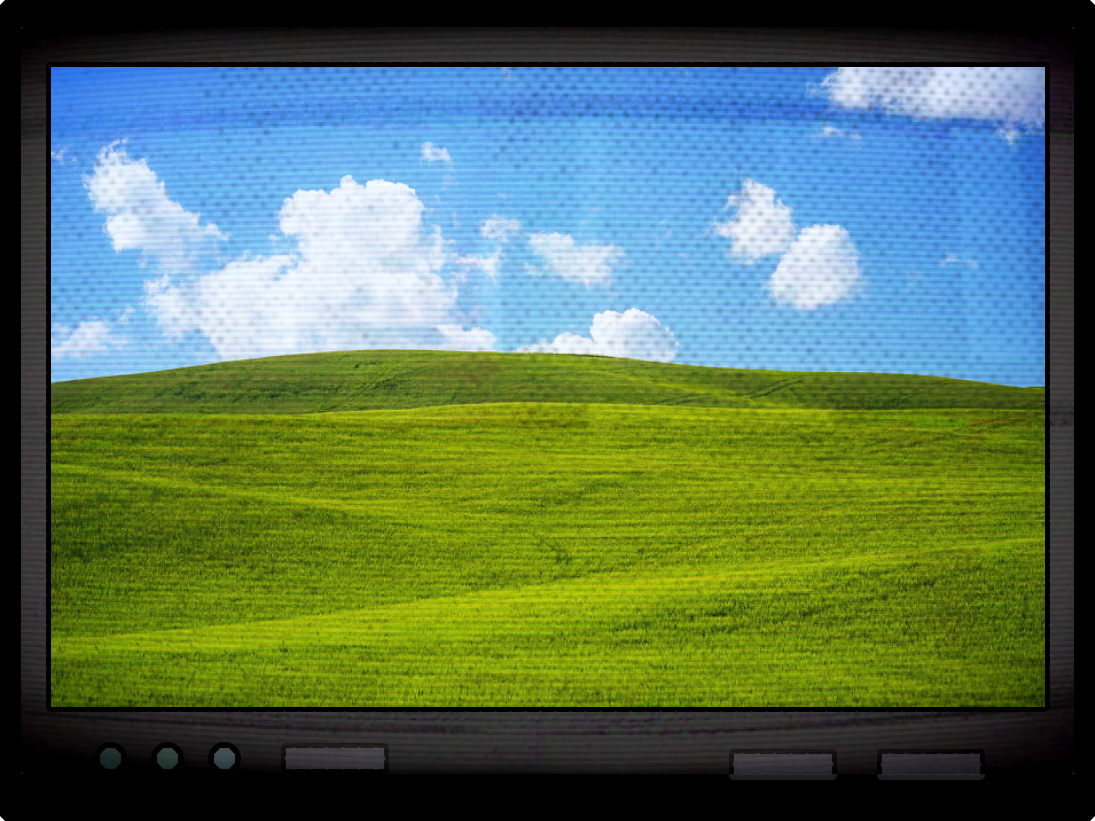
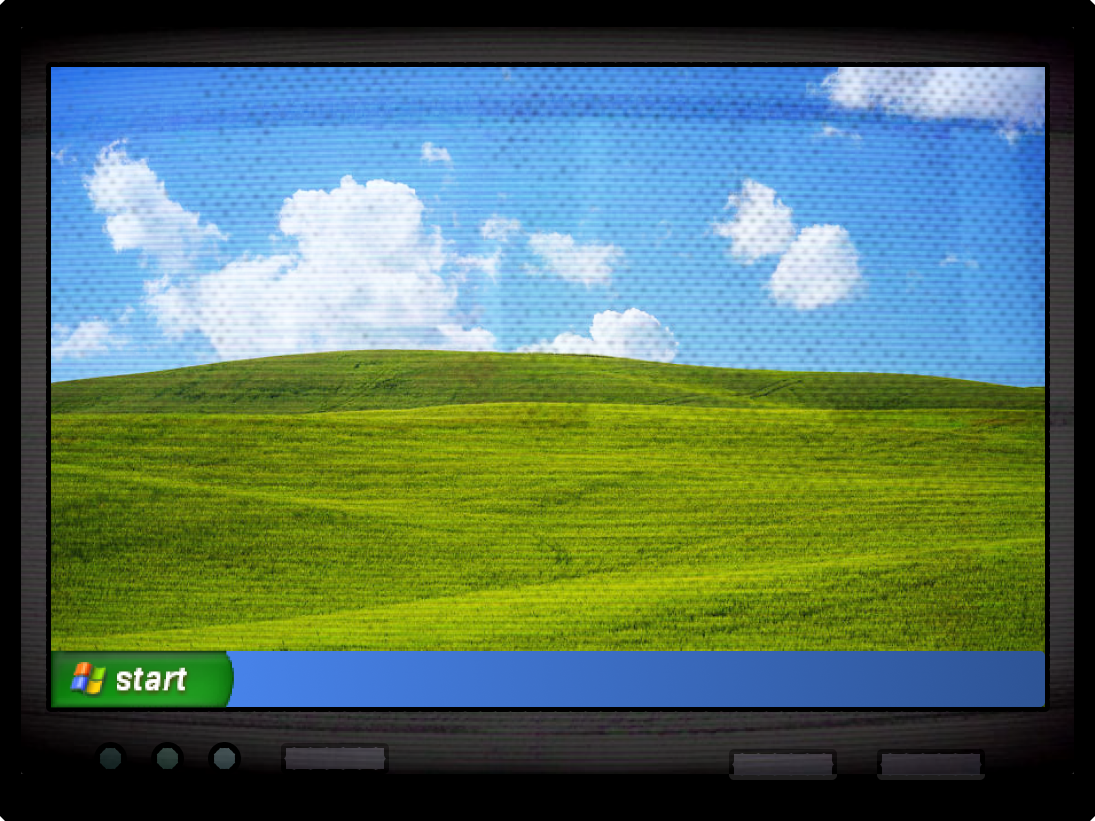
windows menu buttons

Changed region(s): [[0.0311, 0.7917, 0.9626, 0.8831]]

diff --git a/src/app/globals.css b/src/app/globals.css
@@ -336,6 +336,7 @@ ul.rankingList li {
   height: 100vh; /* Full viewport height */
   width: 100vw; /* Full viewport width */
   overflow: hidden; /* Ensure nothing overflows */
+  font-size: smaller;
 }
 
 .gamesRoomImg {
@@ -348,16 +349,49 @@ ul.rankingList li {
 }
 
 .gamesContainer {
-  background-color: white;
+  > h1, p, button {font-family: Tahoma, "Trebuchet MS", sans-serif};
+  position: relative;
+  /* background-color: rgba(255, 74, 74, 0.356); */
   padding: 2em;
   border-radius: 10px;
-  box-shadow: 0 4px 8px rgba(0, 0, 0, 0.2);
+  /* box-shadow: 0 4px 8px rgba(0, 0, 0, 0.2); */
   z-index: 1;
   text-align: center;
-  width: 700px;
-  height: 400px
+  width: 760px;
+  height: 430px;
 }
 
+.windowsMenu {
+  height: 3em; width: auto;
+  position: absolute; bottom:0; left: 0; right: 0;
+  display: flex;
+  align-items: center;
+  justify-content: center;
+  margin-left: 11em; margin-bottom: 0.1em;
+}
+
+.windowsBtn {
+  display: flex;
+  background: rgb(84,162,250);
+  background: radial-gradient(circle, rgba(84,162,250,1) 0%, rgba(50,96,148,0.4990589985994398) 100%);
+  border: 1px solid  rgb(44, 83, 128);
+  box-shadow: #404040;
+  width: 10em;
+  margin-left: 0.5em;
+  border-radius: 10px;
+  text-align: center;
+  padding: 0em 1em;
+  > button {
+    background-color: transparent;
+    height: 3em;
+    color: white;
+    border: transparent;
+  }
+}
+
+.XPicon {
+  width: 2.5em; height: 2.5em;
+}
 
 /* KITCHEN */
 div.kitchen {

diff --git a/src/app/rooms/games/page.jsx b/src/app/rooms/games/page.jsx
@@ -1,6 +1,7 @@
 "use client"
 import React from 'react'
 import Image from 'next/image';
+import WindowsBtn from './WindowsBtn';
 
 export default function Games() {
   return (
@@ -16,7 +17,13 @@ export default function Games() {
       <div className="gamesContainer">
         <button onClick={(e) => alert("Hi")}>btn</button>
         <h1>Welcome</h1>
-        <p>Lorem ipsum dolor sit amet consectetur adipisicing elit. Magni fugiat dolorem illum ducimus, voluptate error corporis unde velit reiciendis quidem, dolore nisi deleniti quo, rerum soluta rem omnis est. Cupiditate!</p>
+        <p>Lorem ipsum dolor sit amet consectetur adipisicing elit!</p>
+        <div className='windowsMenu'>
+          <WindowsBtn redirect={"/"} img={"/games/home.png"} title={"Homepage"}/>
+          <WindowsBtn redirect={"/about/howto"} img={"/games/info.png"} title={"System Utilities"}/>
+          <WindowsBtn redirect={"/about/me"} img={"/games/text.png"} title={"AboutMe.txt"}/>
+          <WindowsBtn redirect={"/"} img={"/games/controller.png"} title={"RDR2.exe"}/>
+        </div>
       </div>
     </div>
   );

diff --git a/src/app/rooms/games/WindowsBtn.jsx b/src/app/rooms/games/WindowsBtn.jsx
@@ -1,0 +1,16 @@
+import React from 'react'
+import Image from 'next/image'
+import { useRouter } from 'next/navigation'
+
+export default function WindowsBtn({img, title, redirect}) {
+    const router = useRouter();
+    return (
+    <div className='windowsBtn'>
+        <Image className={"XPicon"} src={img} alt="br" width={500} height={500}></Image>
+        <button onClick={()=>router.push(redirect)}>{title}</button>
+    </div>
+    )
+}
+
+
+
